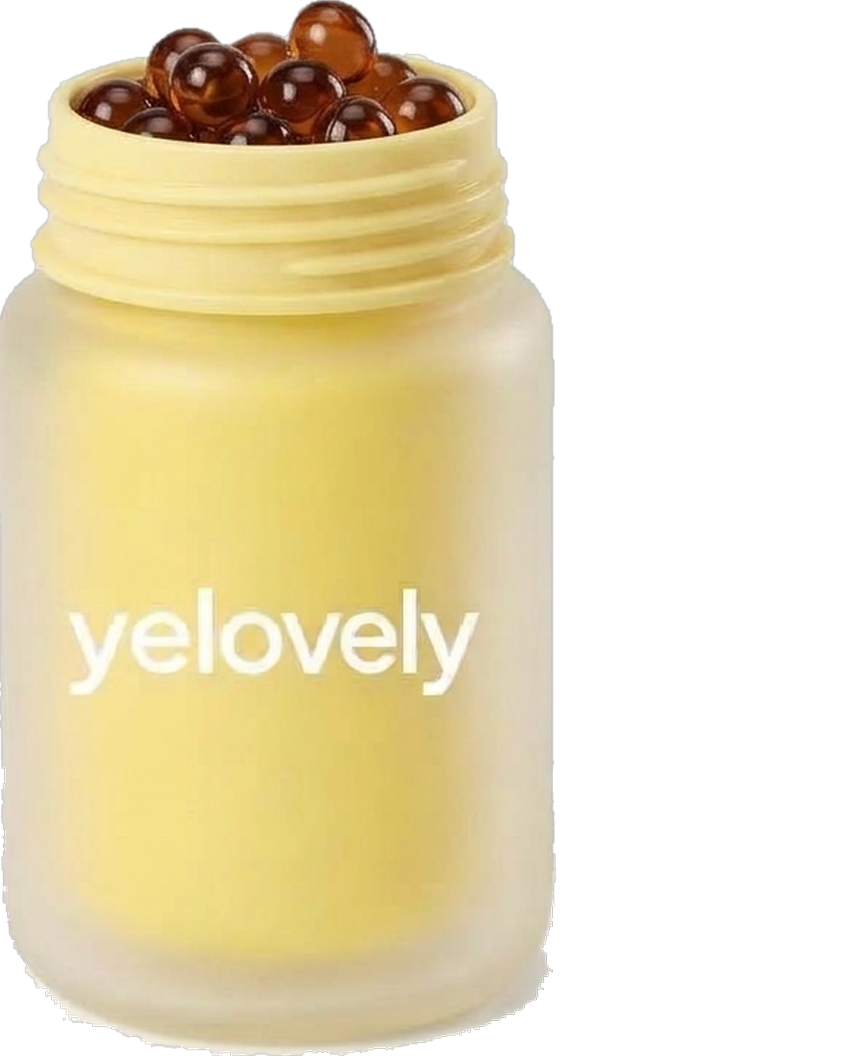
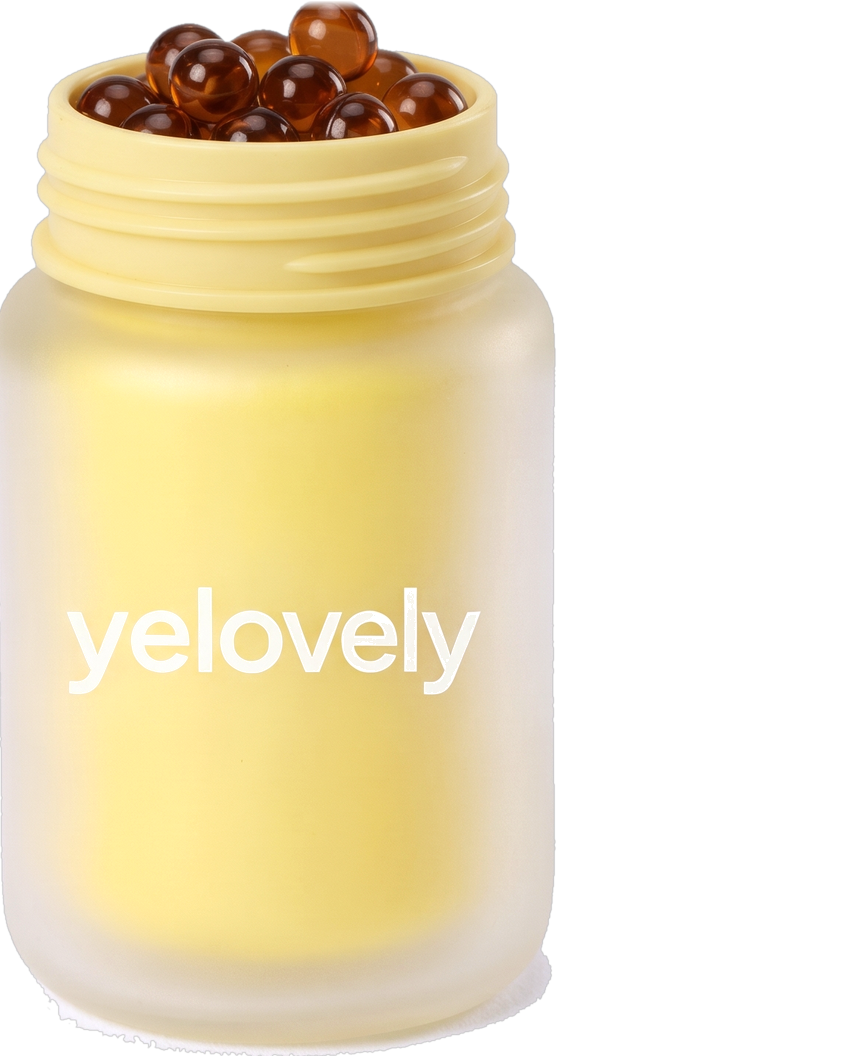
시안 B: 열린 몸통 사진 교체, 뚜껑 열림 모션 개선

diff --git a/index2.html b/index2.html
@@ -227,23 +227,18 @@ ul{list-style:none}
 .case img{display:block;width:100%}
 .case .c-body{position:relative;z-index:1}
 .case .c-body-open{position:absolute;inset:0;z-index:2}
-.ready .h-prod .case .c-body-open{opacity:0;transition:opacity .2s .3s}
-.ready .h-prod .case.open .c-body-open{opacity:1;transition:opacity .15s .05s}
 /* 뚜껑: 닫힘 = 원래 사진, 열림 = 아래에서 본 뚜껑 사진(안쪽 나사산) */
-.ready .h-prod .case .c-cap-open{opacity:0;transition:transform .6s cubic-bezier(.5,-.35,.3,1.25) .3s,opacity .15s .75s}
-.ready .h-prod .case.open .c-cap-open{opacity:1;transition:transform .85s cubic-bezier(.34,1.56,.64,1) 0s,opacity .12s .06s}
-.ready .h-prod .case.open .c-cap-closed{opacity:0;transition:transform .85s cubic-bezier(.34,1.56,.64,1) 0s,opacity .12s .06s}
-.ready .h-prod .case .c-cap-closed{transition:transform .6s cubic-bezier(.5,-.35,.3,1.25) .3s,opacity .15s .75s}
-.case .c-cap{position:absolute;inset:0;z-index:4;transform-origin:62% 34%;transition:transform .6s cubic-bezier(.5,-.35,.3,1.25) .3s}
-.case.open .c-cap{transform:translate(-3%,-32%) rotate(-12deg);transition:transform .85s cubic-bezier(.34,1.56,.64,1) 0s}
+/* 뚜껑: 돌려서 풀고 → 똑바로 들어 올린 뒤 → 키링 쪽으로 기울어짐 (JS 시퀀스) */
+.case .c-capw{position:absolute;inset:0;z-index:4;transform-origin:32% 34%;will-change:transform}
+.case .c-capw img{position:absolute;inset:0;width:100%}
 .c-mouth{position:absolute;z-index:2;left:2%;width:61%;top:34.8%;aspect-ratio:1/.17;translate:0 -50%;border-radius:50%;
   background:radial-gradient(ellipse at 50% 30%,#d9b94e 0%,#ecd583 42%,#f6eccb 64%,#fffdf3 72%,#e6dcc0 100%);
   box-shadow:0 1px 0 rgba(255,255,255,.9);opacity:0;transition:opacity .25s .45s}
 .case.open .c-mouth{opacity:1;transition-delay:0s}
-.c-tabs{position:absolute;left:31%;top:7%;z-index:5;width:0;height:0}
-.c-tabs .tab{transform:translate(0,14px) scale(.5);opacity:0;transition:transform .5s cubic-bezier(.5,0,.75,0) calc(var(--k)*.03s),opacity .3s calc(.25s + var(--k)*.03s)}
-.case.open .c-tabs .tab{opacity:1;transform:translate(var(--x),var(--y)) rotate(var(--r)) scale(1);transition:transform 1s cubic-bezier(.34,1.5,.5,1) calc(.12s + var(--k)*.05s),opacity .2s calc(.12s + var(--k)*.05s)}
-.case.open .c-tabs .tab{animation:tabBob 2.6s ease-in-out calc(1.1s + var(--k)*.2s) infinite}
+.c-tabs{position:absolute;left:31%;top:5%;z-index:5;width:0;height:0}
+.c-tabs .tab{transform:translate(0,8px) scale(.4);opacity:0;transition:transform .42s cubic-bezier(.5,0,.75,0) calc(var(--k)*.025s),opacity .12s calc(.3s + var(--k)*.025s)}
+.case.open .c-tabs .tab{opacity:1;transform:translate(var(--x),var(--y)) rotate(var(--r)) scale(1);transition:transform .95s cubic-bezier(.34,1.5,.5,1) calc(.58s + var(--k)*.06s),opacity .15s calc(.58s + var(--k)*.06s)}
+.case.open .c-tabs .tab{animation:tabBob 2.6s ease-in-out calc(1.6s + var(--k)*.2s) infinite}
 @keyframes tabBob{0%,100%{translate:0 0;scale:1}35%{scale:1.07 .93}50%{translate:0 -7px;scale:.96 1.04}70%{scale:1.02 .98}}
 .case-hint{position:absolute;left:calc(50% + 6%);top:100%;translate:-50% 14px;white-space:nowrap;font-family:var(--en);font-size:10px;letter-spacing:.26em;display:flex;align-items:center;gap:8px;color:var(--brown-70);transition:opacity .5s;pointer-events:none}
 .case-hint i{width:7px;height:7px;border-radius:50%;background:var(--brown);animation:hintDot 1.6s var(--ease) infinite}
@@ -745,10 +740,12 @@ ul{list-style:none}
     <div class="h-prod" id="hProd">
       <div class="case" id="heroCase" data-cur="OPEN" role="button" tabindex="0" aria-label="케이스 열어 보기">
         <img class="c-body" src="images/yk-body.png" alt="옐러블리 레몬 아우라 키링 케이스">
-        <img class="c-body-open" src="images/yk-body-open.png" alt="">
+        <img class="c-body-open" src="images/yk-body-open.png" alt="" style="opacity:0">
         <div class="c-tabs" id="heroTabs"></div>
-        <img class="c-cap c-cap-closed" src="images/yk-cap.png" alt="">
-        <img class="c-cap c-cap-open" src="images/yk-cap-open.png" alt="">
+        <div class="c-capw" id="heroCapW">
+          <img class="c-cap-closed" src="images/yk-cap.png" alt="">
+          <img class="c-cap-open" src="images/yk-cap-open.png" alt="" style="opacity:0">
+        </div>
       </div>
       <span class="case-hint" id="caseHint"><i></i><span id="caseHintT">TAP TO OPEN</span></span>
     </div>
@@ -1319,16 +1316,52 @@ ul{list-style:none}
       el._pop = false;
     }, 1500);
   };
-  let autoPop;
-  const setOpen = on => {
-    hc.classList.toggle('open', on); if (on) hint.classList.add('gone');
-    clearTimeout(autoPop);
-    if (on && !reduce) autoPop = setTimeout(() => { if (hc.classList.contains('open')) popAt(heroTabEls[5], hc); }, 1150);
+  /* 열기·닫기 시퀀스 (실제 뚜껑처럼)
+     열기: ①살짝 돌려 풂 → ②똑바로 들어 올려 병목을 벗어남 → ③키링 쪽으로 기울며 멈춤(살짝 튕김) → ④캡슐이 톡톡 나옴
+     닫기: ①캡슐이 먼저 쏙 들어감 → ②뚜껑이 병목 위로 똑바로 → ③내려앉으며 돌려 잠금(작은 반동)
+     · 몸통 교체는 뚜껑이 병목을 덮고 있는 순간에, 뚜껑 사진 교체는 뚜껑이 공중에 떠 있는 순간에 → 바뀌는 게 보이지 않음 */
+  const capW = $('#heroCapW'), capC = capW.querySelector('.c-cap-closed'), capO = capW.querySelector('.c-cap-open'), bodyO = hc.querySelector('.c-body-open');
+  const OPEN_POSE = 'translate(-4%,-33%) rotate(-13deg)';
+  let capAnim = null, seqT = [], autoPop, isOpen = false;
+  const clearSeq = () => { seqT.forEach(clearTimeout); seqT = []; clearTimeout(autoPop); };
+  const at = (ms, fn) => seqT.push(setTimeout(fn, ms));
+  const show = (el, v, d = 110) => el.animate([{ opacity: getComputedStyle(el).opacity }, { opacity: v }], { duration: d, fill: 'forwards' });
+  const curT = () => { const m = getComputedStyle(capW).transform; return m === 'none' ? 'translate(0,0) rotate(0deg)' : m; };
+  const runCap = (frames, dur) => {
+    const from = curT(); if (capAnim) capAnim.cancel();
+    capAnim = capW.animate([{ transform: from, offset: 0 }, ...frames], { duration: dur, fill: 'forwards' });
   };
-  heroTabEls.forEach(el => el.addEventListener('click', e => { e.stopPropagation(); if (hc.classList.contains('open')) popAt(el, hc); }));
+  const setOpen = on => {
+    if (on === isOpen) return; isOpen = on; clearSeq();
+    if (on) {
+      hint.classList.add('gone');
+      show(bodyO, 1, 60);                                   // 뚜껑이 덮고 있을 때 몸통 교체
+      runCap([
+        { transform: 'translate(0,-1%) rotate(-5deg)', offset: .12, easing: 'ease-in-out' },
+        { transform: 'translate(0,-2%) rotate(4deg)', offset: .24, easing: 'ease-in-out' },
+        { transform: 'translate(0,-3%) rotate(-2deg)', offset: .32, easing: 'cubic-bezier(.4,0,.2,1)' },
+        { transform: 'translate(0,-40%) rotate(0deg)', offset: .62, easing: 'cubic-bezier(.3,0,.25,1)' },
+        { transform: 'translate(-5%,-35%) rotate(-16deg)', offset: .86, easing: 'ease-in-out' },
+        { transform: OPEN_POSE, offset: 1 }
+      ], 1050);
+      at(470, () => { show(capC, 0, 90); show(capO, 1, 90); }); // 공중에서 뚜껑 사진 교체(안쪽 나사산이 보이는 각도)
+      hc.classList.add('open');                              // 캡슐은 CSS 지연(≈0.58s)으로 뚜껑이 빠진 뒤 등장
+      if (!reduce) autoPop = setTimeout(() => { if (isOpen) popAt(heroTabEls[5], hc); }, 1700);
+    } else {
+      hc.classList.remove('open');                           // 캡슐 먼저 들어감
+      at(260, () => runCap([
+        { transform: 'translate(0,-40%) rotate(0deg)', offset: .4, easing: 'cubic-bezier(.4,0,.6,1)' },
+        { transform: 'translate(0,0) rotate(3deg)', offset: .78, easing: 'ease-out' },
+        { transform: 'translate(0,-1.2%) rotate(-2deg)', offset: .88, easing: 'ease-in-out' },
+        { transform: 'translate(0,0) rotate(0deg)', offset: 1 }
+      ], 820));
+      at(260 + 330, () => { show(capO, 0, 90); show(capC, 1, 90); }); // 병목 위 공중에서 원래 뚜껑으로
+      at(260 + 680, () => show(bodyO, 0, 60));              // 다 닫힌 뒤 몸통 원래대로
+    }
+  };
   if (fine) { hc.addEventListener('mouseenter', () => setOpen(true)); hc.addEventListener('mouseleave', () => setOpen(false)); }
-  hc.addEventListener('click', () => { if (!fine) { setOpen(!hc.classList.contains('open')); if (navigator.vibrate) navigator.vibrate(10); } });
-  hc.addEventListener('keydown', e => { if (e.key === 'Enter' || e.key === ' ') { e.preventDefault(); setOpen(!hc.classList.contains('open')); } });
+  hc.addEventListener('click', () => { if (!fine) { setOpen(!isOpen); if (navigator.vibrate) navigator.vibrate(10); } });
+  hc.addEventListener('keydown', e => { if (e.key === 'Enter' || e.key === ' ') { e.preventDefault(); setOpen(!isOpen); } });
 
   /* ── 03 분해도 준비 ── */
   const xpl = $('#inside'), xc = $('#xc'), xCap = $('#xCap'), xBody = $('#xBody'), xTabs = $('#xTabs'), xOpen = $('#xOpen'), xCapOpen = $('#xCapOpen'), xCapClosed = $('#xCapClosed');
@@ -1337,7 +1370,7 @@ ul{list-style:none}
   const NT = 6; let xPopped = false;
   xTabs.innerHTML = Array.from({ length: NT }, () => '<span class="tab"><b></b><b></b><b></b><b></b></span>').join('');
   const xTabEls = [...xTabs.children];
-  const SEAM = .348, MX = .31, NECK = .06, LIFT = .6, DROP = .1;   // 뚜껑 이음선 · 입구 중심 · 병목 높이 (케이스 기준 비율)
+  const SEAM = .348, MX = .31, NECK = .04, LIFT = .6, DROP = .1;   // 뚜껑 이음선 · 입구 중심 · 병목 높이 (케이스 기준 비율)
   const xGeom = a => { const w = xc.offsetWidth, h = xc.offsetHeight; return { w, h, capDy: -a * LIFT * h, bodyDy: a * DROP * h, mouthY: (NECK + a * DROP) * h }; };
   const xTabPos = (i, a, g) => {
     const gap = g.mouthY - (SEAM * g.h - LIFT * g.h * a);            // 뚜껑과 병목 사이 벌어진 공간
@@ -1370,7 +1403,7 @@ ul{list-style:none}
       hR1.style.transform = `translateX(${-p1 * spread}vw)`;
       hR2.style.transform = `translateX(${p1 * spread}vw)`;
       const pf = seg(p, .34, .56);
-      const bob = Math.sin(t * 1.4) * 8;
+      const bob = Math.sin(t * 1.4) * 1.1;   // 은은한 부유 (vh) — 너무 크면 탭하기 어렵고 어색함
       hProd.style.transform = `translateY(${bob - p1 * 6}vh) rotate(${-8 * p1 + Math.sin(t) * 2}deg) scale(${lerp(1, .55, easeIO(pf)) * (1 + p1 * .12)})`;
       hProd.style.opacity = 1 - pf;
       hRing.style.transform = `rotate(${t * 6 + p * 160}deg) scale(${1 + p1 * .4})`;
@@ -1388,13 +1421,15 @@ ul{list-style:none}
       const p = reduce ? 1 : progOf(xpl);
       const a = easeIO(seg(p, .04, .4));
       const g = xGeom(a);
-      xCap.style.transform = `translate(${-a * g.w * .06}px, ${g.capDy}px) rotate(${-a * 7}deg)`;
+      const tw = seg(a, 0, .2), lift = easeIO(seg(a, .1, .62)), tilt = easeOut(seg(a, .55, 1));
+      const twist = Math.sin(tw * Math.PI * 2) * 4 * (1 - tw * .6);
+      xCap.style.transform = `translate(${-tilt * g.w * .06}px, ${-(lift * .88 + tilt * .12) * LIFT * g.h}px) rotate(${twist - tilt * 9}deg)`;
       xBody.style.transform = `translateY(${g.bodyDy}px)`;
       xOpen.style.opacity = clamp(a * 6);
-      const co = clamp(a * 6); xCapOpen.style.opacity = co; xCapClosed.style.opacity = 1 - co;
+      const co = seg(a, .42, .52); xCapOpen.style.opacity = co; xCapClosed.style.opacity = 1 - co;
       let out = 0;
       xTabEls.forEach((el, i) => {
-        const ai = easeOut(seg(p, .14 + i * .045, .46 + i * .045));
+        const ai = easeOut(seg(p, .2 + i * .045, .5 + i * .045));
         const tp = xTabPos(i, a, g);
         const y = lerp(g.mouthY + g.w * .04, tp.y, ai);
         const spin = p > .7 ? (p - .7) * 260 * (i % 2 ? 1 : -1) : 0;
